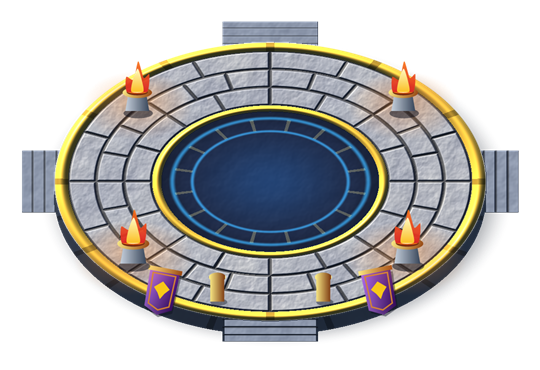
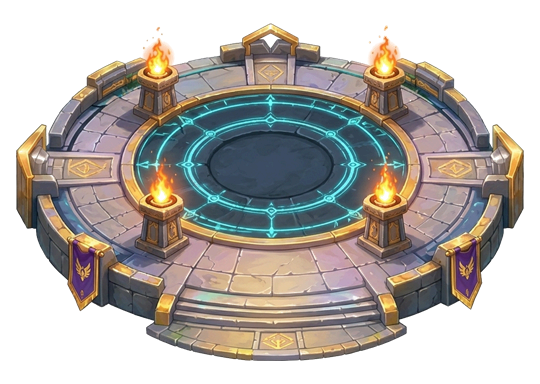
art(world): replace programmatic props, plaza & roads with studio 2.5D RPG illustrations

diff --git a/src/scenes/GameScene.ts b/src/scenes/GameScene.ts
@@ -153,6 +153,7 @@ export class GameScene extends Phaser.Scene {
   private wellSprite?: Phaser.GameObjects.Sprite;
   private wellLabel?: Phaser.GameObjects.Text;
   private nodeSprites: Phaser.GameObjects.Sprite[] = [];
+  private chestSprites: Phaser.GameObjects.Sprite[] = [];
   private monsterSprites = new Map<number, Phaser.GameObjects.Sprite>();
   private spritePool: Phaser.GameObjects.Sprite[] = [];
   private shadowGraphics!: Phaser.GameObjects.Graphics;
@@ -242,14 +243,15 @@ export class GameScene extends Phaser.Scene {
   }
 
   preload(): void {
+    const v = '?v=studio1';
     for (let i = 1; i <= 5; i++) {
-      this.load.image(`tile_ground_0${i}`, `assets/tiles/tile_ground_0${i}.png`);
+      this.load.image(`tile_ground_0${i}`, `assets/tiles/tile_ground_0${i}.png${v}`);
     }
-    this.load.image('sanctuary_plaza', 'assets/tiles/sanctuary_plaza.png');
-    this.load.spritesheet('world_props', 'assets/tiles/world_props.png', { frameWidth: 128, frameHeight: 128 });
-    this.load.spritesheet('world_decals', 'assets/tiles/world_decals.png', { frameWidth: 64, frameHeight: 64 });
-    this.load.spritesheet('gather_nodes', 'assets/tiles/gather_nodes.png', { frameWidth: 128, frameHeight: 128 });
-    this.load.spritesheet('base_core', 'assets/sprites/base_core.png', { frameWidth: 160, frameHeight: 160 });
+    this.load.image('sanctuary_plaza', `assets/tiles/sanctuary_plaza.png${v}`);
+    this.load.spritesheet('world_props', `assets/tiles/world_props.png${v}`, { frameWidth: 160, frameHeight: 160 });
+    this.load.spritesheet('world_decals', `assets/tiles/world_decals.png${v}`, { frameWidth: 128, frameHeight: 128 });
+    this.load.spritesheet('gather_nodes', `assets/tiles/gather_nodes.png${v}`, { frameWidth: 160, frameHeight: 160 });
+    this.load.spritesheet('base_core', `assets/sprites/base_core.png${v}`, { frameWidth: 160, frameHeight: 160 });
     this.load.spritesheet('hero_idle', 'assets/sprites/hero_idle.png', { frameWidth: 128, frameHeight: 128 });
     this.load.spritesheet('hero_walk', 'assets/sprites/hero_walk.png', { frameWidth: 128, frameHeight: 128 });
     this.load.spritesheet('hero_hit', 'assets/sprites/hero_hit.png', { frameWidth: 128, frameHeight: 128 });
@@ -329,6 +331,7 @@ export class GameScene extends Phaser.Scene {
     this.wellSprite = undefined;
     this.wellLabel = undefined;
     this.nodeSprites = [];
+    this.chestSprites = [];
     this.fxPool = [];
     this.activeFxSprites = [];
     this.liveFx = [];
@@ -796,10 +799,10 @@ export class GameScene extends Phaser.Scene {
     const phaseLight = s.phase === 'night' ? 1.0 : s.phase === 'evening' ? 0.72 : 0.36;
     const emberPulse = 0.26 + 0.09 * Math.sin(this.animTime * 7.2);
     const braziers: Array<[number, number]> = [
-      [-133, -72],
-      [133, -72],
-      [-137, 78],
-      [137, 78],
+      [-108, -92],
+      [108, -92],
+      [-110, 28],
+      [110, 28],
     ];
     for (let i = 0; i < braziers.length; i++) {
       const [bx, by] = braziers[i];
@@ -1021,7 +1024,7 @@ export class GameScene extends Phaser.Scene {
       const full = w.water + w.fish > 0;
       const frame = full ? 2 : 3;
       if (!this.wellSprite || !this.wellSprite.scene) {
-        this.wellSprite = this.add.sprite(w.x, w.y - 6, 'gather_nodes', frame).setScale(0.45);
+        this.wellSprite = this.add.sprite(w.x, w.y - 6, 'gather_nodes', frame).setScale(0.42);
       }
       if (!this.wellLabel || !this.wellLabel.scene) {
         this.wellLabel = this.add
@@ -1064,8 +1067,8 @@ export class GameScene extends Phaser.Scene {
         const sway = Math.sin(this.animTime * 3.1 + n.y * 0.05) * 0.045;
         spr
           .setFrame(frame)
-          .setPosition(n.x, n.y - 6 - bob)
-          .setScale(0.40)
+          .setPosition(n.x, n.y - 8 - bob)
+          .setScale(0.36)
           .setRotation(sway)
           .setDepth(this.depthAtY(n.y))
           .setVisible(true);
@@ -1076,6 +1079,30 @@ export class GameScene extends Phaser.Scene {
     }
     for (let i = nodeIdx; i < this.nodeSprites.length; i++) {
       this.nodeSprites[i]?.setVisible(false);
+    }
+
+    const hasDecalTex = this.textures.exists('world_decals');
+    let chestIdx = 0;
+    if (hasDecalTex) {
+      for (const c of s.chests ?? []) {
+        let cspr = this.chestSprites[chestIdx];
+        if (!cspr || !cspr.scene) {
+          cspr = this.add.sprite(c.x, c.y, 'world_decals', 2).setScale(0.38);
+          this.chestSprites[chestIdx] = cspr;
+        }
+        cspr.setPosition(c.x, c.y - 4).setDepth(this.depthAtY(c.y)).setVisible(true);
+        if (c.opened) {
+          cspr.setTint(0x64748b).setAlpha(0.55);
+        } else {
+          cspr.clearTint().setAlpha(1);
+          sg.fillStyle(0x0f172a, 0.24).fillEllipse(c.x + 2, c.y + 10, 30, 12);
+          sg.fillStyle(0xfbbf24, 0.22).fillEllipse(c.x, c.y + 6, 44, 22);
+        }
+        chestIdx++;
+      }
+    }
+    for (let i = chestIdx; i < this.chestSprites.length; i++) {
+      this.chestSprites[i]?.setVisible(false);
     }
   }
 
@@ -1475,22 +1502,20 @@ export class GameScene extends Phaser.Scene {
   private drawBars(): void {
     const s = this.state;
     const g = this.barGraphics.clear();
-    for (const c of s.chests ?? []) {
-      if (c.opened) {
-        g.fillStyle(0x090d16, 0.25).fillEllipse(c.x + 2, c.y + 8, 24, 9);
-        g.fillStyle(0x475569, 0.85).fillRect(c.x - 10, c.y - 4, 20, 10);
-        g.fillStyle(0x1e293b, 0.9).fillRect(c.x - 8, c.y - 8, 16, 6);
-        g.lineStyle(1.5, 0x94a3b8, 0.7).strokeRect(c.x - 10, c.y - 4, 20, 10);
-      } else {
-        // 3D Oblique Treasure Chest
-        g.fillStyle(0x090d16, 0.34).fillEllipse(c.x + 2, c.y + 9, 28, 11);
-        g.fillStyle(0xfbbf24, 0.22).fillEllipse(c.x, c.y + 4, 42, 24);
-        g.fillStyle(0x78350f, 1).fillRect(c.x - 11, c.y - 2, 22, 10); // front wall
-        g.fillStyle(0xd97706, 1).fillRect(c.x - 11, c.y - 9, 22, 8);  // vaulted top lid
-        g.fillStyle(0xf59e0b, 0.85).fillRect(c.x - 9, c.y - 8, 18, 3); // top specular bevel
-        g.fillStyle(0xfbbf24, 1).fillRect(c.x - 7, c.y - 9, 2.5, 17).fillRect(c.x + 4.5, c.y - 9, 2.5, 17); // brass straps
-        g.lineStyle(1.5, 0x451a03, 1).strokeRect(c.x - 11, c.y - 9, 22, 17);
-        g.fillStyle(0xfef08a, 1).fillRect(c.x - 2, c.y - 3, 4, 5); // gold lockplate
+    if (!this.textures.exists('world_decals')) {
+      for (const c of s.chests ?? []) {
+        if (c.opened) {
+          g.fillStyle(0x090d16, 0.25).fillEllipse(c.x + 2, c.y + 8, 24, 9);
+          g.fillStyle(0x475569, 0.85).fillRect(c.x - 10, c.y - 4, 20, 10);
+          g.fillStyle(0x1e293b, 0.9).fillRect(c.x - 8, c.y - 8, 16, 6);
+          g.lineStyle(1.5, 0x94a3b8, 0.7).strokeRect(c.x - 10, c.y - 4, 20, 10);
+        } else {
+          g.fillStyle(0x090d16, 0.34).fillEllipse(c.x + 2, c.y + 9, 28, 11);
+          g.fillStyle(0xfbbf24, 0.22).fillEllipse(c.x, c.y + 4, 42, 24);
+          g.fillStyle(0x78350f, 1).fillRect(c.x - 11, c.y - 2, 22, 10);
+          g.fillStyle(0xd97706, 1).fillRect(c.x - 11, c.y - 9, 22, 8);
+          g.lineStyle(1.5, 0x451a03, 1).strokeRect(c.x - 11, c.y - 9, 22, 17);
+        }
       }
     }
     // Gatherable ingredients (R2): pulsing aura ring underneath the 2.5D gather_nodes sprites.
@@ -2858,6 +2883,8 @@ export class GameScene extends Phaser.Scene {
   private drawWorld(): void {
     const map = RunRng.fromSeed(this.state.seed).get('map');
     const hasDecals = this.textures.exists('world_decals');
+    const decalStamp = hasDecals ? this.make.image({ key: 'world_decals', frame: 0, add: false }) : undefined;
+    const plazaY = CORE_Y + 4;
     if (this.textures.exists('tile_ground_01')) {
       const rt = this.add.renderTexture(0, 0, WORLD, WORLD).setOrigin(0).setDepth(0);
       rt.beginDraw();
@@ -2867,17 +2894,40 @@ export class GameScene extends Phaser.Scene {
           rt.batchDrawFrame(`tile_ground_0${tileIdx}`, undefined, tx, ty);
         }
       }
-      // Bake non-repeating organic meadow wildflowers, clover & mossy pebbles directly into static terrain
-      if (hasDecals) {
-        for (let d = 0; d < 170; d++) {
+      // Bake non-repeating studio wildflower tufts + painted cardinal flagstone paths into static ground RenderTexture
+      if (decalStamp) {
+        for (let d = 0; d < 140; d++) {
           const dx = map.int(64, WORLD - 64);
           const dy = map.int(64, WORLD - 64);
-          if (Math.hypot(dx - CORE_X, dy - CORE_Y) < 250) continue;
-          const frameIdx = map.int(0, 3);
-          rt.batchDrawFrame('world_decals', frameIdx, dx - 32, dy - 32);
+          if (Math.hypot(dx - CORE_X, dy - CORE_Y) < 268) continue;
+          const sc = 0.28 + (d % 4) * 0.04;
+          decalStamp.setFrame(0).setScale(sc).setFlipX(d % 2 === 0).setAlpha(0.92);
+          rt.draw(decalStamp, dx, dy);
+        }
+        // Studio-illustrated sandstone flagstone clusters along N/S/E/W pathways
+        for (const [isVert, dir] of [
+          [false, -1],
+          [false, 1],
+          [true, -1],
+          [true, 1],
+        ] as const) {
+          const len = isVert ? 440 : 540;
+          const start = isVert ? 156 : 228;
+          const steps = 12;
+          for (let step = 0; step < steps; step++) {
+            const t = step / (steps - 1);
+            const dist = start + t * len;
+            const wobble = Math.sin(step * 2.1 + dir) * 5;
+            const px = isVert ? CORE_X + wobble : CORE_X + dir * dist;
+            const py = isVert ? plazaY + dir * dist : plazaY + wobble * 0.7;
+            const sc = (0.45 - t * 0.06) * (step % 2 === 0 ? 1.0 : 0.92);
+            decalStamp.setFrame(1).setScale(sc).setFlipX((step + (dir > 0 ? 1 : 0)) % 2 === 0).setAlpha(0.96);
+            rt.draw(decalStamp, px, py);
+          }
         }
       }
       rt.endDraw();
+      decalStamp?.destroy();
     } else {
       const gBg = this.add.graphics().setDepth(0);
       gBg.fillStyle(0x1d2b1f).fillRect(0, 0, WORLD, WORLD);
@@ -2888,9 +2938,8 @@ export class GameScene extends Phaser.Scene {
       }
     }
 
-    // World-space painterly meadow glades + organic dirt & varied flagstone walkways + carved outer runic markers.
+    // World-space painterly meadow glades + soft outer boundary stone walkway + studio crystal pylons.
     const gRoads = this.add.graphics().setDepth(0.8);
-    const plazaY = CORE_Y + 4;
     for (let i = 0; i < 36; i++) {
       const gx = map.int(120, WORLD - 120);
       const gy = map.int(120, WORLD - 120);
@@ -2907,75 +2956,40 @@ export class GameScene extends Phaser.Scene {
     gRoads.fillStyle(0x052e16, 0.11).fillRect(0, 0, WORLD, WORLD);
     gRoads.fillStyle(0xbef264, 0.08).fillEllipse(CORE_X - 40, plazaY - 30, 1240, 740);
 
-    // Outer sanctuary recessed stone boundary curb + 8 3D-shaded cyan crystal pylons
-    gRoads.lineStyle(18, 0x1e293b, 0.24).strokeEllipse(CORE_X, plazaY + 2, 1082, 622);
-    gRoads.lineStyle(10, 0x475569, 0.36).strokeEllipse(CORE_X, plazaY + 1, 1080, 620);
-    gRoads.lineStyle(4, 0xcbd5e1, 0.32).strokeEllipse(CORE_X - 1, plazaY - 1, 1078, 618);
-    gRoads.lineStyle(1.8, 0x38bdf8, 0.22).strokeEllipse(CORE_X, plazaY, 1080, 620);
+    // Outer sanctuary subtle worn mossy stone boundary track + 8 studio Cyan Crystal Pylons
+    gRoads.lineStyle(18, 0x0b1f14, 0.16).strokeEllipse(CORE_X, plazaY + 2, 1082, 622);
+    gRoads.lineStyle(8, 0x94a3b8, 0.20).strokeEllipse(CORE_X, plazaY, 1080, 620);
+    gRoads.lineStyle(1.6, 0x38bdf8, 0.16).strokeEllipse(CORE_X, plazaY, 1080, 620);
     for (let k = 0; k < 8; k++) {
       const a = (k * Math.PI * 2) / 8 + Math.PI / 8;
       const sx = CORE_X + Math.cos(a) * 540;
       const sy = plazaY + Math.sin(a) * 310;
-      gRoads.fillStyle(0x38bdf8, 0.24).fillEllipse(sx, sy - 6, 54, 30);
-      gRoads.fillStyle(0x07121b, 0.34).fillEllipse(sx + 5, sy + 6, 34, 17);
-      // 3D beveled stone plinth
-      gRoads.fillStyle(0x475569, 0.96).fillEllipse(sx, sy + 2, 26, 14);
-      gRoads.fillStyle(0x94a3b8, 0.95).fillEllipse(sx - 1, sy, 22, 11);
-      // Shaded azure crystal prism (sunlit left facet + deep sapphire right facet, no chunky black outline)
-      gRoads.fillStyle(0x0369a1, 1).fillTriangle(sx, sy - 18, sx + 7, sy - 3, sx, sy + 2);
-      gRoads.fillStyle(0x7dd3fc, 1).fillTriangle(sx, sy - 18, sx - 7, sy - 3, sx, sy + 2);
-      gRoads.fillStyle(0xe0f2fe, 0.92).fillTriangle(sx, sy - 18, sx - 3.5, sy - 7, sx, sy - 2);
-    }
-
-    const stoneTones = [0x94a3b8, 0x8795a6, 0xa8a29e, 0x7c8a99];
-    const drawNaturalSlab = (fx: number, fy: number, w: number, h: number, idx: number, milestone = false) => {
-      const base = stoneTones[idx % stoneTones.length];
-      // Embedded mossy earth AO rim + directional shadow + 3D stone bevel (no flat ink loop!)
-      gRoads.fillStyle(0x1f291c, 0.38).fillEllipse(fx + 2, fy + 3, w + 5, h + 3.5);
-      gRoads.fillStyle(0x475569, 0.94).fillEllipse(fx + 0.8, fy + 2.2, w, h);
-      gRoads.fillStyle(base, 0.96).fillEllipse(fx, fy, w, h);
-      gRoads.fillStyle(0xe2e8f0, 0.48).fillEllipse(fx - w * 0.08, fy - h * 0.16, Math.max(5, w * 0.65), Math.max(3.5, h * 0.45));
-      if (milestone) {
-        gRoads.fillStyle(0x38bdf8, 0.18).fillEllipse(fx, fy, w * 0.72, h * 0.72);
-        gRoads.lineStyle(1.4, 0x7dd3fc, 0.65).strokeEllipse(fx, fy, w * 0.52, h * 0.52);
+      gRoads.fillStyle(0x38bdf8, 0.18).fillEllipse(sx, sy - 6, 54, 28);
+      gRoads.fillStyle(0x07121b, 0.28).fillEllipse(sx + 4, sy + 4, 34, 15);
+      if (hasDecals) {
+        this.add
+          .sprite(sx, sy + 2, 'world_decals', 3)
+          .setOrigin(0.5, 0.88)
+          .setScale(0.48)
+          .setDepth(this.depthAtY(sy));
       }
-    };
+    }
 
     const drawRoadTrack = (vertical: boolean, dir: -1 | 1) => {
       const len = vertical ? 440 : 540;
       const start = vertical ? 136 : 210;
       const cx0 = CORE_X + (vertical ? 0 : dir * (start + len * 0.45));
       const cy0 = plazaY + (vertical ? dir * (start + len * 0.45) : 0);
-      // Tapered earthy dirt & moss under-path (never boxy roundedRect strips!)
-      gRoads.fillStyle(0x3f4e32, 0.42).fillEllipse(cx0, cy0, vertical ? 64 : len, vertical ? len : 52);
-      gRoads.fillStyle(0x6b5b42, 0.46).fillEllipse(cx0, cy0, vertical ? 42 : len * 0.9, vertical ? len * 0.9 : 34);
-
-      const steps = 11;
-      for (let step = 0; step < steps; step++) {
-        const t = step / (steps - 1);
-        const dist = start + t * len;
-        const wobble = Math.sin(step * 2.1 + dir) * 5;
-        const px = vertical ? CORE_X + wobble : CORE_X + dir * dist;
-        const py = vertical ? plazaY + dir * dist : plazaY + wobble * 0.7;
-        const sizeScale = 1 - t * 0.22;
-        const mainW = (24 + (step % 3) * 3) * sizeScale;
-        const mainH = (16 + ((step + 1) % 3) * 2) * sizeScale;
-        drawNaturalSlab(px + (vertical ? -7 : 0), py + (vertical ? 0 : -6), mainW, mainH, step, step === 3 || step === 7);
-        if (step % 2 === 0 || t < 0.65) {
-          drawNaturalSlab(
-            px + (vertical ? 9 : dir * 13),
-            py + (vertical ? dir * 12 : 7),
-            mainW * 0.78,
-            mainH * 0.76,
-            step + 2,
-          );
-        }
-        // Subtle tiny pebbles / grass tufts flanking road shoulders
-        if (step % 2 === 1) {
-          const sx = px + (vertical ? (step % 4 === 1 ? -22 : 22) : 6);
-          const sy = py + (vertical ? 5 : (step % 4 === 1 ? -18 : 18));
-          gRoads.fillStyle(0x475569, 0.7).fillCircle(sx, sy, 2.5);
-          gRoads.fillStyle(0x4ade80, 0.45).fillCircle(sx + 5, sy + 2, 3.2);
+      gRoads.fillStyle(0x283820, 0.34).fillEllipse(cx0, cy0, vertical ? 64 : len, vertical ? len : 52);
+      gRoads.fillStyle(0x524632, 0.26).fillEllipse(cx0, cy0, vertical ? 42 : len * 0.9, vertical ? len * 0.9 : 34);
+      if (!hasDecals) {
+        const steps = 11;
+        for (let step = 0; step < steps; step++) {
+          const t = step / (steps - 1);
+          const dist = start + t * len;
+          const px = vertical ? CORE_X : CORE_X + dir * dist;
+          const py = vertical ? plazaY + dir * dist : plazaY;
+          gRoads.fillStyle(0x94a3b8, 0.88).fillEllipse(px, py, 20, 14);
         }
       }
     };
@@ -2998,20 +3012,21 @@ export class GameScene extends Phaser.Scene {
       const x = map.int(1, MAP_TILES - 2) * TILE + TILE / 2 + map.int(-14, 14);
       const y = map.int(1, MAP_TILES - 2) * TILE + TILE / 2 + map.int(-14, 14);
       const kind = map.int(0, 3);
-      if (Math.hypot(x - CORE_X, y - CORE_Y) < 245) continue;
-      if ((Math.abs(x - CORE_X) < 58 && Math.abs(y - plazaY) < 560) || (Math.abs(y - plazaY) < 46 && Math.abs(x - CORE_X) < 800)) {
+      if (Math.hypot(x - CORE_X, y - CORE_Y) < 276) continue;
+      if ((Math.abs(x - CORE_X) < 62 && Math.abs(y - plazaY) < 560) || (Math.abs(y - plazaY) < 48 && Math.abs(x - CORE_X) < 800)) {
         continue;
       }
-      if (placedProps.some((p) => Math.hypot(p.x - x, p.y - y) < 108)) continue;
+      if (placedProps.some((p) => Math.hypot(p.x - x, p.y - y) < 112)) continue;
       placedProps.push({ x, y });
       if (hasProps) {
-        const sc = 0.56 + ((i % 4) * 0.04);
-        // Directional lower-right cast shadow grounding props into the sunlit meadow
-        gPropShadows.fillStyle(0x07170e, 0.22).fillEllipse(x + 9, y + 7, 58 * (sc / 0.62), 22 * (sc / 0.62));
-        gPropShadows.fillStyle(0x07170e, 0.34).fillEllipse(x + 4, y + 5, 38 * (sc / 0.62), 14 * (sc / 0.62));
+        const sc = 0.64 + ((i % 4) * 0.045);
+        // Subtle soft ground AO only for rock/obelisk props (tree & arch already carry painted cast shadow)
+        if (kind === 1 || kind === 3) {
+          gPropShadows.fillStyle(0x07170e, 0.24).fillEllipse(x + 5, y + 4, 48 * (sc / 0.7), 18 * (sc / 0.7));
+        }
         this.add
           .sprite(x, y, 'world_props', kind)
-          .setOrigin(0.5, 0.80)
+          .setOrigin(0.5, 0.84)
           .setScale(sc)
           .setDepth(this.depthAtY(y));
       } else {
@@ -3019,13 +3034,13 @@ export class GameScene extends Phaser.Scene {
       }
     }
 
-    // 2.5D Illustrated Base Core crystal dais in the centre (GDD §5) — Y-sorted with Hero & Monsters.
+    // 2.5D Illustrated Base Core crystal dais nested into Sanctuary Plaza center (GDD §5).
     this.coreSprite = this.add
-      .sprite(CORE_X, CORE_Y - 14, 'base_core', 0)
-      .setScale(1.06)
+      .sprite(CORE_X, CORE_Y - 12, 'base_core', 0)
+      .setScale(0.95)
       .setDepth(this.depthAtY(CORE_Y));
     this.add
-      .text(CORE_X, CORE_Y + 54, 'แกนฐาน', {
+      .text(CORE_X, CORE_Y + 58, 'แกนฐาน', {
         fontFamily: 'system-ui, sans-serif',
         fontSize: '13px',
         fontStyle: 'bold',

diff --git a/HANDOFF.md b/HANDOFF.md
@@ -197,6 +197,7 @@
 ## Log
 | เวลา | ใคร | ทำอะไร | commit/branch |
 | --- | --- | --- | --- |
+| 2026-11-17 06:45 | Gemini | **อัปเกรดสิ่งแวดล้อมทั้งโลกเป็น Studio-Illustrated 2.5D RPG Artwork ตาม Concept Art (`gemini/concept-art-overhaul`):** สร้างภาพเพนต์ระดับสตูดิโอจริงแทนงานเรขาคณิตทั้งหมด — [sanctuary_plaza.png](file:///e:/AI/LastSurvivor/public/assets/tiles/sanctuary_plaza.png) (`206.9 KB`, แท่นศิลาขอบทอง+ธงม่วงปีกทอง+4 เตาไฟ+บันได 4 ทิศ+วงเวทฟ้า), [world_props.png](file:///e:/AI/LastSurvivor/public/assets/tiles/world_props.png) (`640×160`, ต้นโอ๊ก+คริสตัล+ซุ้มรูน+เสาโอเบลิสก์ด้วย 2D connected component slicing ไม่ตัดชนกัน), [gather_nodes.png](file:///e:/AI/LastSurvivor/public/assets/tiles/gather_nodes.png) (`640×160`, ฟ่อนข้าวสีทอง+เห็ดมอส+บ่อน้ำเต็ม/แห้ง), [world_decals.png](file:///e:/AI/LastSurvivor/public/assets/tiles/world_decals.png) (`512×128`, ช่อดอกไม้ป่า+แผ่นหินทางเดิน+หีบสมบัติทองไม้+เสาคริสตัลรอบเขต), แทนที่หีบสี่เหลี่ยม/เม็ดหินทางเดิน/เสาวงแหวนใน `GameScene.ts` ด้วยสไปรต์เพนต์ + Cache-bust `?v=studio1` + ปรับตำแหน่งแสง 4 เตาไฟ (`npm test` **34 ไฟล์ / 248 เทสต์**, `npm run build` ผ่าน, Live Browser QA `1280×720` `?renderer=canvas` **60 FPS / 0 errors**) | `gemini/concept-art-overhaul` |
 | 2026-11-16 22:43 | Gemini | **ขัดเกลาคุณภาพกราฟิกระดับ Top-Tier Web Game (`gemini/concept-art-overhaul`):** ปรับ `tile_ground_04..05.png` เป็นหญ้าล้วนไร้ตารางดอกไม้ซ้ำและเพิ่ม `world_decals.png` (`256×64`) ประทับดอกไม้ป่า/โคลเวอร์ลง `RenderTexture` ครั้งเดียวแบบ `0` draw-call, ปรับลานใน `sanctuary_plaza.png` ให้รับกับแท่นคริสตัล `base_core.png`, สร้างแสง Gaussian Radial Bloom (`vfx_soft_glow`) บนเตาไฟ 4 มุมตรงตำแหน่ง (`[±133,-72]/[±137,+78]`), จัดระยะห่างพร็อพโลกไม่ให้ซ้อน (`≥108px`), เพิ่มวงนำสายตาฮีโร่ + ป้าย `'แกนฐาน'` + แรงสั่นเบาตอนสกิลใหญ่ (`npm test` **34 ไฟล์ / 248 เทสต์**, `npm run build` ผ่าน, Live Browser QA กลางวัน+กลางคืน `1280×720` `?renderer=canvas` **60 FPS / 0 errors**) | `gemini/concept-art-overhaul` |
 | 2026-11-16 21:52 | Gemini | **ยกระดับภาพฉาก พื้นหญ้า แท่น Sanctuary และ HUD ให้ใกล้เคียง Concept Art (`gemini/concept-art-overhaul`):** สร้าง `base_core.png` (`480×160` แท่นบันไดหินทอง + คริสตัลม่วง/ร้าวไฟ/แตกด้วย AI illustration), ตัดพื้นหญ้าเพนต์ `tile_ground_01..05.png` ไร้รอยต่อพร้อมช่อดอกไม้เดซี่, วาด 4×SSAA `sanctuary_plaza.png` (ขอบทอง+ธงม่วงคู่+4 เตาไฟ+บันได 4 ทิศ) / `world_props.png` / `gather_nodes.png`, เพิ่มพอร์ตเทรตฮีโร่ใน HUD บนซ้าย, กรอบทองพร้อมสตั๊ดมุม + เรดาร์ทอง `N · RADAR` ใน `roTheme.ts` & `GameScene.ts`, เสาคริสตัลฟ้า 8 ต้นรอบวงแหวน, ลำแสงแดดกลางวัน และปรับสเกลฮีโร่ `0.58` / สไลม์ `0.30` (`npm test` **34 ไฟล์ / 248 เทสต์**, `npm run build` ผ่าน, Live Browser QA `1280×720` `?renderer=canvas` **0 errors / 60 FPS**) | `gemini/concept-art-overhaul` |
 | 2026-11-16 21:31 | Gemini | **วาดและตัดสไปรต์อนิเมะ 2D Studio-Illustrated 4×3 ยกชุดแทนโมเดลเวกเตอร์ (`gemini/pro-character-models`):** แทนสไปรต์เวกเตอร์ที่ดูแข็งด้วยภาพวาดอนิเมะ 2D เส้นหมึกคมและเงา cel-shaded ครบทุกตัว (`hero_idle`/`hero_walk`/`hero_hit`/`hero_death`, `mob_slime_walk`, `mob_bat_walk`, `mob_goblin_walk`, `mob_skeleton_archer_walk`, `mob_fog_wraith_walk`, `mob_mud_golem_walk`, `elite_rift_wolf_walk`, `boss_bloodmoon_walk`, `boss_bloodmoon_enrage_walk` ครบ 3 ทิศทาง `down`/`side`/`up`) ผ่าน flood-fill de-fringe + ตัดช่องแบ่งต่อแถว + บีบอัดทุกไฟล์ `< 256 KB` พร้อมปรับ `MONSTER_VISUAL_SCALE` (`slime: 0.35` ฯลฯ) ใน `src/scenes/GameScene.ts` (`npm test` **34 ไฟล์ / 248 เทสต์**, `npm run build` ผ่าน, Live Browser QA `1280×720` `?renderer=canvas` **0 errors / 60 FPS**) | `gemini/pro-character-models` |
